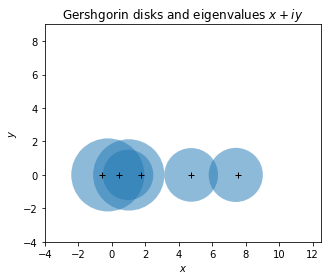
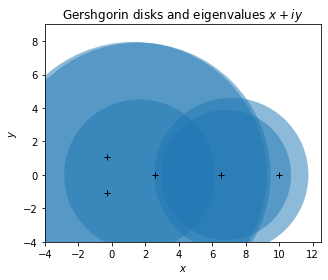
changes

diff --git a/_build/html/gershgorin.html b/_build/html/gershgorin.html
@@ -539,7 +539,7 @@ D_3&amp;=\left \{ z\in \mathbb{C}, |z-3|\leq 0.2\right\}
 <span class="n">n</span> <span class="o">=</span> <span class="mi">5</span> 
 
 <span class="n">D</span> <span class="o">=</span> <span class="n">np</span><span class="o">.</span><span class="n">diag</span><span class="p">([</span><span class="mi">0</span><span class="p">,</span> <span class="o">-</span><span class="mi">1</span><span class="p">,</span> <span class="mi">4</span> <span class="p">,</span> <span class="mi">1</span> <span class="p">,</span> <span class="mi">7</span> <span class="p">])</span>
-<span class="n">M</span> <span class="o">=</span> <span class="n">np</span><span class="o">.</span><span class="n">random</span><span class="o">.</span><span class="n">rand</span><span class="p">(</span><span class="n">n</span><span class="p">,</span> <span class="n">n</span><span class="p">)</span> <span class="o">+</span> <span class="n">D</span>
+<span class="n">M</span> <span class="o">=</span> <span class="mi">3</span><span class="o">*</span><span class="n">np</span><span class="o">.</span><span class="n">random</span><span class="o">.</span><span class="n">rand</span><span class="p">(</span><span class="n">n</span><span class="p">,</span> <span class="n">n</span><span class="p">)</span> <span class="o">+</span> <span class="n">D</span>
 
 <span class="n">R</span> <span class="o">=</span> <span class="n">np</span><span class="o">.</span><span class="n">zeros</span><span class="p">(</span><span class="n">n</span><span class="p">)</span> 
 <span class="k">for</span> <span class="n">i</span> <span class="ow">in</span> <span class="nb">range</span><span class="p">(</span><span class="n">n</span><span class="p">):</span>

diff --git a/_build/jupyter_execute/gershgorin.py b/_build/jupyter_execute/gershgorin.py
@@ -48,7 +48,7 @@ import matplotlib.pyplot as plt
 n = 5 
 
 D = np.diag([0, -1, 4 , 1 , 7 ])
-M = np.random.rand(n, n) + D
+M = 3*np.random.rand(n, n) + D
 
 R = np.zeros(n) 
 for i in range(n):

diff --git a/gershgorin.md b/gershgorin.md
@@ -54,7 +54,7 @@ import matplotlib.pyplot as plt
 n = 5 
 
 D = np.diag([0, -1, 4 , 1 , 7 ])
-M = 3*np.random.rand(n, n) + D
+M = 1.2*np.random.rand(n, n) + D
 
 R = np.zeros(n) 
 for i in range(n):

diff --git a/_build/html/_sources/gershgorin.md b/_build/html/_sources/gershgorin.md
@@ -54,7 +54,7 @@ import matplotlib.pyplot as plt
 n = 5 
 
 D = np.diag([0, -1, 4 , 1 , 7 ])
-M = np.random.rand(n, n) + D
+M = 3*np.random.rand(n, n) + D
 
 R = np.zeros(n) 
 for i in range(n):
